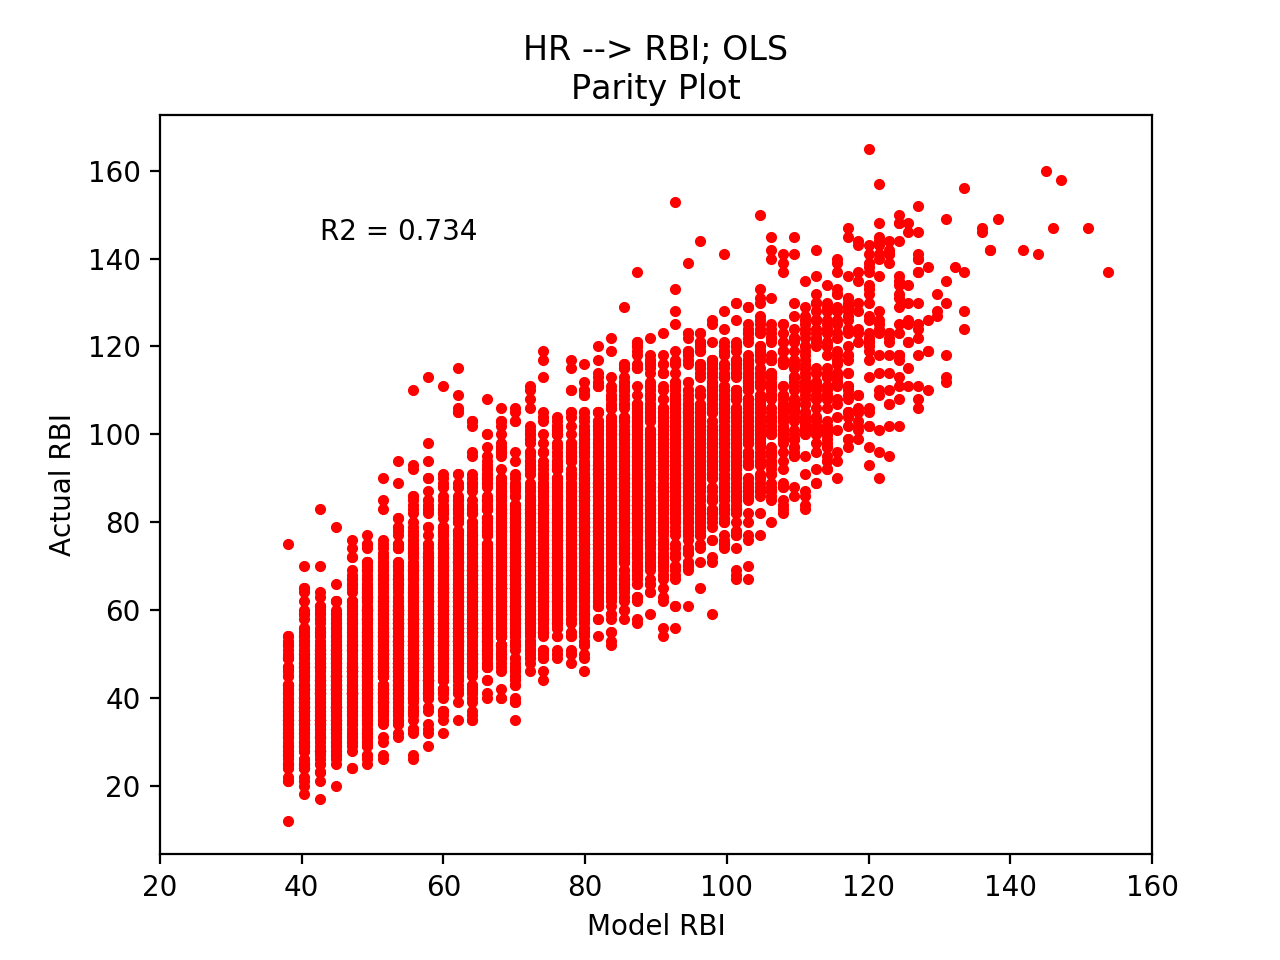
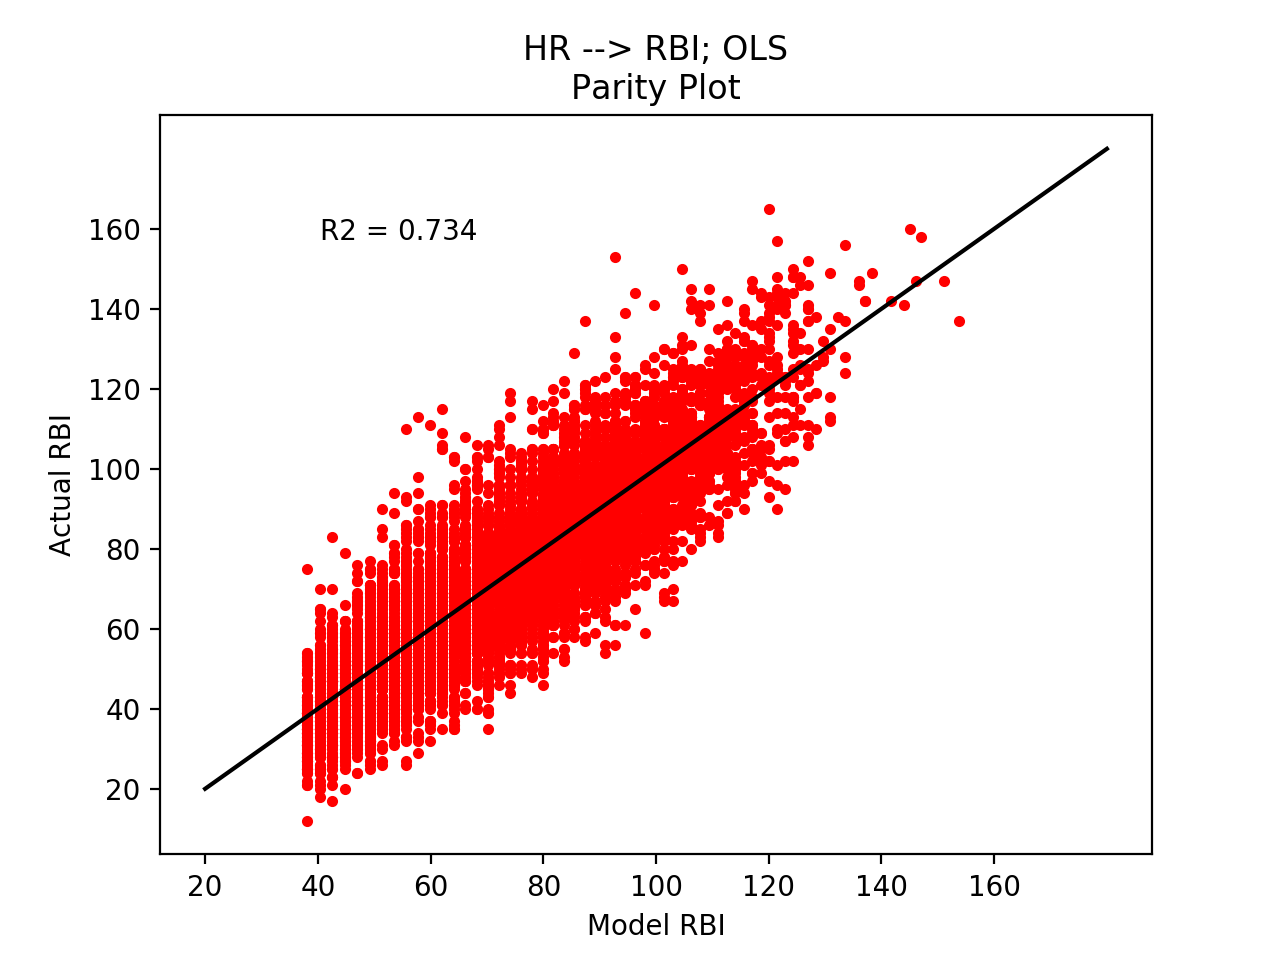
fixed all resids and added line to parity plots

diff --git a/stat.py b/stat.py
@@ -41,14 +41,8 @@ bat['Rating'] /= bat['Max']
 bat = bat.drop('Max', 1)
 """
 
-def f(x1, x2):
-    ans = 6.423303 * x1 * x2
-    ans += -625.898839 * x2**2
-    ans += 0.018235 * x1**2
-    ans += 57.690117 * x2
-    ans += -5.892841 * x1
-    ans += 392.525936
-    return ans
+def f(x, e):
+    return e[0] * x[:, 0] * x[:, 1] + e[1] * x[:, 0]**2 + e[2] * x[:, 1] ** 2 + e[3] * x[:, 0] + e[4] * x[:, 1] + e[5]
 
 x = ['G', 'avg']
 y = 'H'
@@ -60,6 +54,18 @@ yval = tot.H.as_matrix()
 
 s2 = ols.ols_multi(xval, yval, order=2, pair_terms=True, intercept=True, show=False, name=', '.join(x) + ': ' + y)
 
+fig, ax = plt.subplots()
+
+ax.plot([s2.func(i) for i in xval], yval, '.', color='m')
+ax.set_xticks(range(70, 260, 20))
+ax.set_yticks(range(70, 260, 20))
+ax.plot(range(70, 251), range(70, 251), color='black')
+ax.set_xlabel('Model')
+ax.set_ylabel('Actual')
+ax.set_title('Multivariate OLS\nParity Plot')
+
+
+"""
 x1 = np.linspace(xval[:, 0].min(), xval[:, 0].max())
 x2 = np.linspace(xval[:, 1].min(), xval[:, 1].max())
 X, Y = np.meshgrid(x1, x2)
@@ -75,7 +81,7 @@ ax.set_ylabel('avg', fontsize=14)
 ax.set_zlabel('H', fontsize=14)
 ax.set_title('Best Fit Multivariate OLS')
 fig.text(0.25, 0.75, 'R2 = %.3f' % s2.r2)
-
+"""
 
 def make_str(o):
     n = 97

diff --git a/singOLS_analysis.py b/singOLS_analysis.py
@@ -104,7 +104,7 @@ for o in [1, 2, 3]:
 
     a = single[0]
     xn,yn = a.name.split(': ')
-    if 0:
+    if 1:
         vals = bat[[xn, yn]].sort_values(xn).as_matrix()
         x = vals[:, 0]
         y = vals[:, 1]
@@ -112,7 +112,7 @@ for o in [1, 2, 3]:
 
 
         fig2, ax2 = plt.subplots()
-        ax2.bar(np.linspace(0, a.resid.max(), 50), h, color=colors[o], width=a.resid.max()/60.)
+        ax2.bar(np.linspace(b.min(), b.max(), 50), h, color=colors[o], width=a.resid.max()/60.)
         ax2.set_title('%s --> %s residuals; OLS' %(xn, yn))
         ax2.set_xlabel('Residual')
         ax2.set_ylabel('Frequency')
@@ -124,6 +124,7 @@ for o in [1, 2, 3]:
         yhat = np.poly1d(a.b)(x)
         fig3, ax3 = plt.subplots()
         ax3.plot(yhat, y, '.', color=colors[o])
+        ax3.plot(range(20, 181), range(20, 181), color='black')
         ax3.set_title('%s --> %s; OLS\nParity Plot' %(xn, yn))
         ax3.set_xlabel('Model %s' % yn)
         ax3.set_ylabel('Actual %s' % yn)

diff --git a/ols.py b/ols.py
@@ -12,7 +12,7 @@ class Solution:
                      'sum': 'pandas DataFrame summary of results',
                      'name': 'info on inputs being used',
                      'func': 'function to use model by passing in inputs',
-                     'resid': 'abs(residuals)'
+                     'resid': 'target - output'
                      }
 
         self.format = format
@@ -137,7 +137,7 @@ def ols(x, y, format='', show=True, name=''):
         print 'R^2: %s' % str(r2)
         print '_' * 100
 
-    return Solution(format, b, pval, r2, name, abs(resid))
+    return Solution(format, b, pval, r2, name, resid)
 
 
 def ols_sing(x1, y, order=2, intercept=True, show=True, name='', return_ols=True):

diff --git a/regreg_analysis.py b/regreg_analysis.py
@@ -145,13 +145,13 @@ fig3.text(0.25, 0.75, 'R2 = %.3f' % elastic.r_sq)
 
 # residuals histograms
 #"""
-lasso_resid = f(lasso_x, lasso.x) - lasso_y
+lasso_resid = lasso_y - f(lasso_x, lasso.x)
 #lasso_resid /= lasso_resid.max()
 
-ridge_resid = f(ridge_x, ridge.x) - ridge_y
+ridge_resid = ridge_y - f(ridge_x, ridge.x)
 #ridge_resid /= ridge_resid.max()
 
-elastic_resid = f(elastic_x, elastic.x) - elastic_y
+elastic_resid = elastic_y - f(elastic_x, elastic.x)
 #elastic_resid /= elastic_resid.max()
 
 bins = 50.
